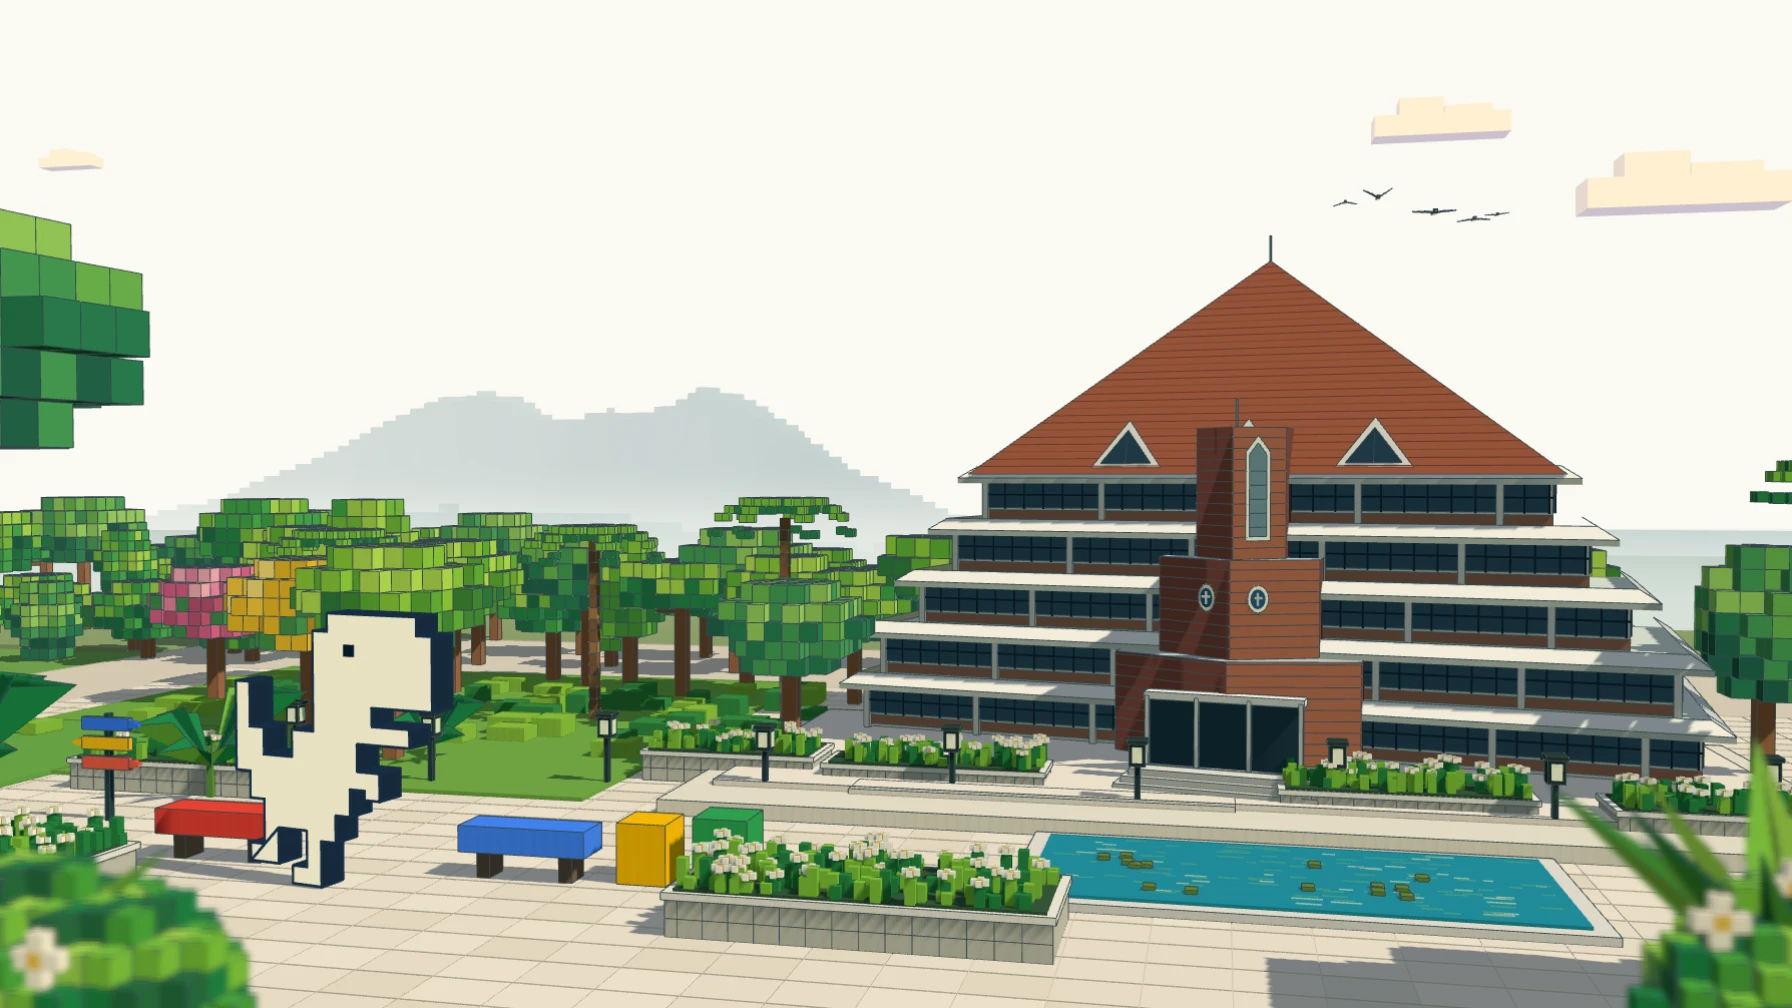
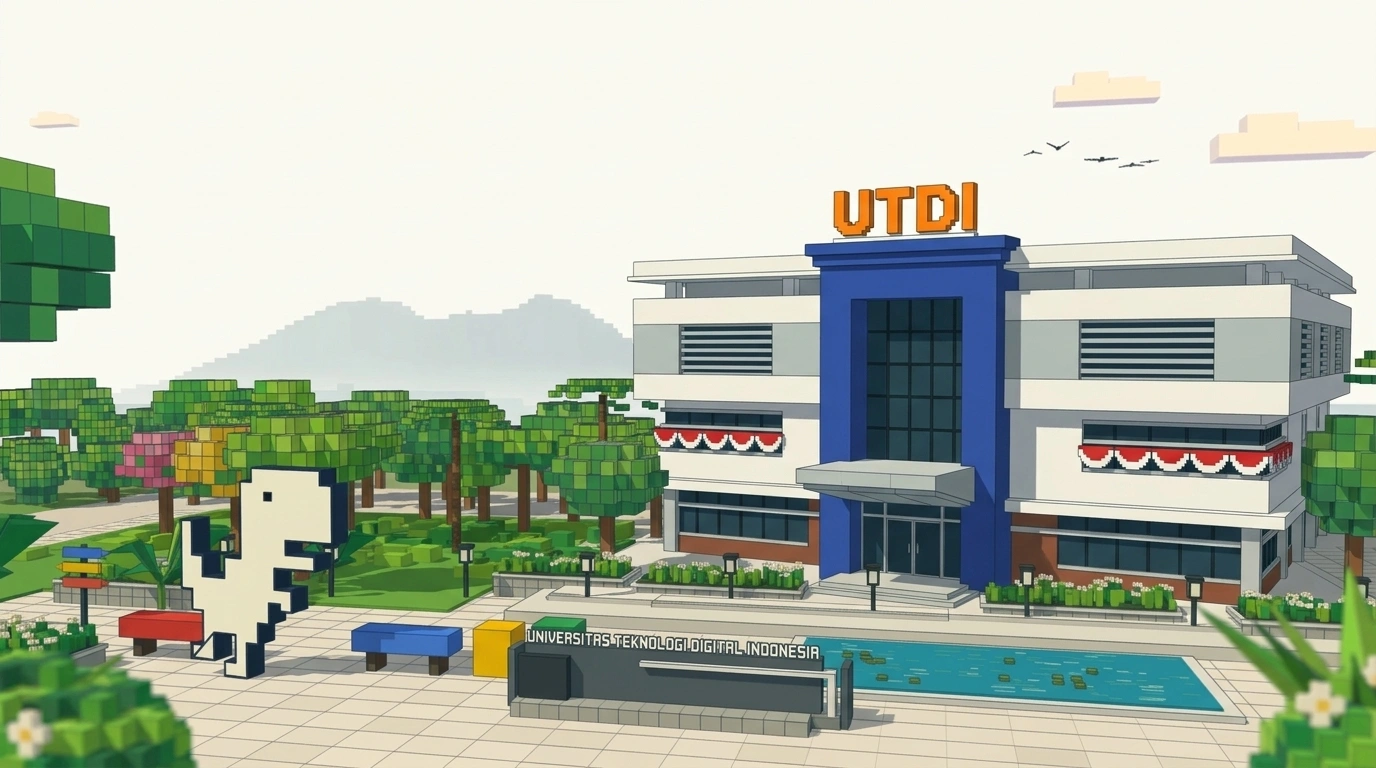
feat(hero): ubah background hero menjadi gedung kampus UTDI bergaya 3D lego voxel

diff --git a/src/app/page.tsx b/src/app/page.tsx
@@ -150,12 +150,12 @@ export default async function HomePage() {
         {/* Layer 1: 3D Voxel Campus Environment Art Background */}
         <div className="absolute inset-0 z-0 pointer-events-none overflow-hidden">
           <Image
-            src="/environments/01-hello-campus-3d.webp"
-            alt="Environment 3D Kampus UTDI Voxel Arcade"
+            src="/environments/utdi-campus-lego.webp"
+            alt="Environment 3D Kampus UTDI Yogyakarta Bergaya Lego Voxel"
             fill
             priority
             sizes="100vw"
-            className="object-cover object-bottom md:object-right-bottom opacity-85 transition-opacity duration-700"
+            className="object-cover object-bottom md:object-right-bottom opacity-90 transition-opacity duration-700"
           />
 
           {/* Floating Pixel Clouds */}
